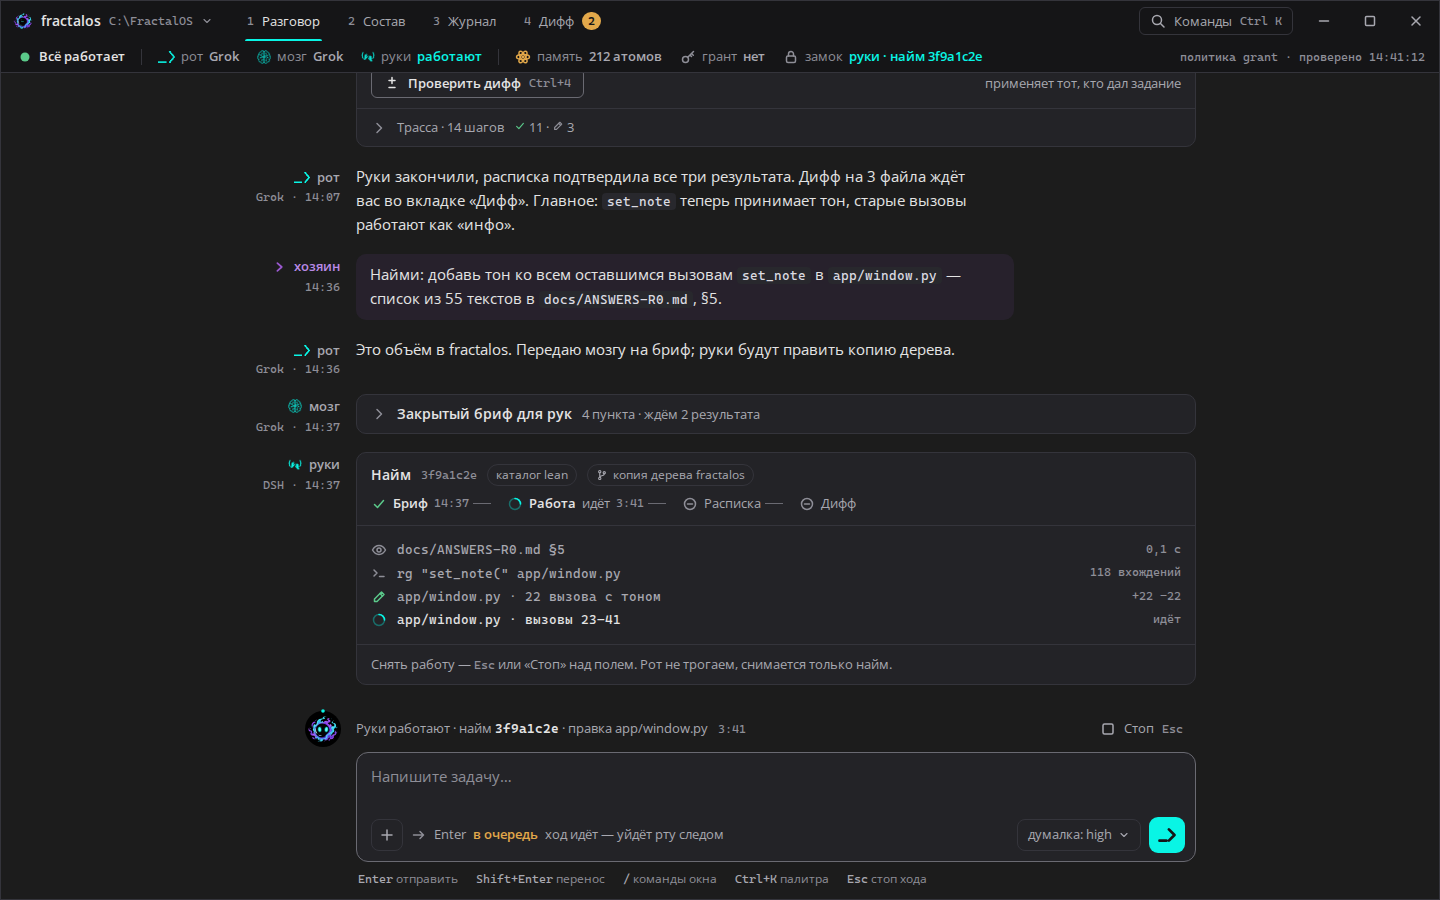
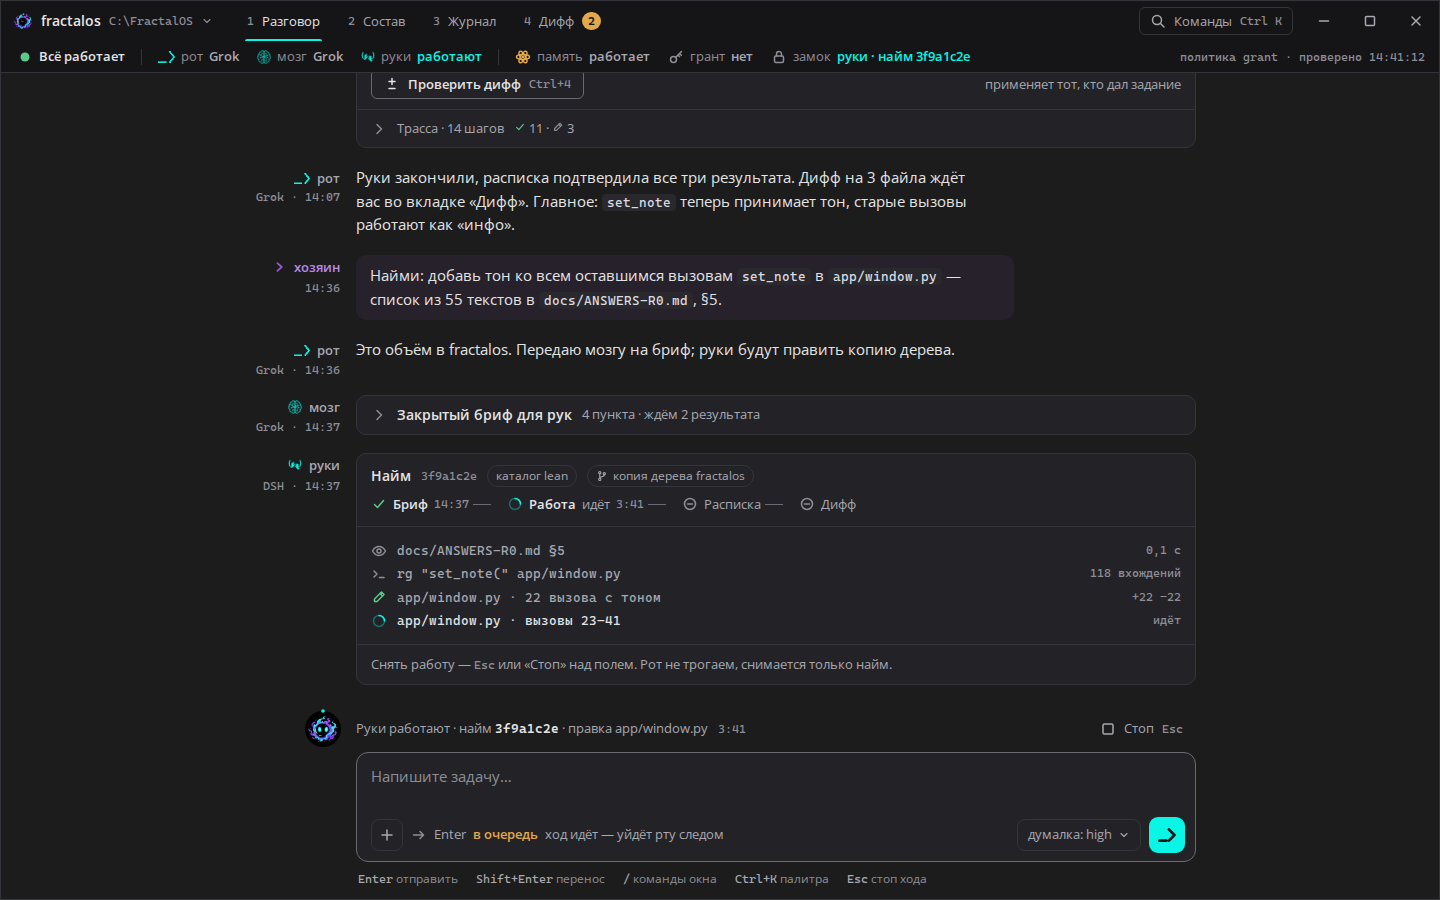
Раунд 1: память одним словом, снимки для сравнения шрифта и ширины
Claude-Session: https://claude.ai/code/session_01GEYAgXC2CYMH5bK9vX1dSj

diff --git a/rounds/01-terminal/index.html b/rounds/01-terminal/index.html
@@ -497,7 +497,7 @@ let UI = {view:"talk", sel:"hands", split:false, palette:false, palMode:"all", p
 /* ---------- проблемы для строки закона и сводки ---------- */
 function issues(s){
   const out = [];
-  if (s.mem.st==="down") out.push({part:"mem", level:"down", short:"Память: нет связи", long:"память лежит: нет связи с Bridge — подсказки не подаются"});
+  if (s.mem.st==="down") out.push({part:"mem", level:"down", short:"Память: нет связи", long:"память лежит: нет связи — работа идёт без памяти"});
   if (s.brain.on && s.brain.st==="warn") out.push({part:"brain", level:"warn", short:"Мозг на запасном Flash", long:"мозг работает на запасном Flash: у Grok кончилась квота"});
   return out;
 }
@@ -514,7 +514,7 @@ function renderLaw(){
   const brainCls = !s.brain.on ? "is-off" : s.brain.st==="warn" ? "is-warn" : "";
   const handsVal = !s.hands.on ? "выкл" : s.hands.busy ? "работают" : "вкл";
   const handsCls = !s.hands.on ? "is-off" : s.hands.busy ? "is-live" : "";
-  const memVal = s.mem.st==="down" ? "нет связи" : `${s.mem.atoms} атомов`;
+  const memVal = s.mem.st==="down" ? "нет связи" : "работает";
   const grantVal = s.grant.st==="open" ? `до ${s.grant.until}` : s.grant.st==="asked" ? "запрошен" : "нет";
   const lockVal = s.lock.holder ? s.lock.holder : "свободен";
 
@@ -523,7 +523,7 @@ function renderLaw(){
    + `<button class="seg ${brainCls}" data-go="brain" title="Мозг — суждение и бриф для рук">${stamp("brain")}мозг <b>${brainVal}</b></button>`
    + `<button class="seg ${handsCls}" data-go="hands" title="Руки — исполнитель по найму">${stamp("hands")}руки <b>${handsVal}</b></button>`
    + `<span class="sep"></span>`
-   + `<button class="seg ${s.mem.st==="down"?"is-down":""}" data-go="mem" title="Память: сколько помнит по проекту">${ico("atom","st-warn")}память <b>${memVal}</b></button>`
+   + `<button class="seg ${s.mem.st==="down"?"is-down":""}" data-go="mem" title="Память продукта: работает или нет">${ico("atom","st-warn")}память <b>${memVal}</b></button>`
    + `<button class="seg ${s.grant.st!=="none"?"is-warn":""}" data-go="grant" title="Грант на запись вне песочницы. Выдаёт только хозяин">${ico("key")}грант <b>${grantVal}</b></button>`
    + `<button class="seg ${s.lock.holder?"is-live":""}" data-go="lock" title="Замок писателя: пока один пишет, второй не пишет">${ico("lock")}замок <b>${esc(lockVal)}</b></button>`
    + `<span class="spacer"></span><span class="checked">политика ${s.policy} · проверено ${s.checked}</span>`;
@@ -629,7 +629,7 @@ function ledgerHTML(s){
     L.push(T.owner("13:18", "<p>Сравни две схемы хранения сессий: одна папка на сессию или один журнал на день. Код не нужен, нужен вывод.</p>"));
     L.push(T.note("13:20", "warn", "мозг: у Grok кончилась квота — вердикты даёт запасной Flash до 16:00. Хотели Grok."));
     L.push(T.mouth("13:21", "Grok", "<p>Папка на сессию выигрывает. Наймы, расписки и диффы уже живут в <code>runtime/dispatch/&lt;sid&gt;/</code>; журнал по дням пришлось бы каждый раз собирать обратно по сессиям.</p><p>Минус один — много мелких папок. Он снимается архивом всего, что старше 30 дней.</p>"));
-    L.push(T.note("14:21", "down", "память: нет связи с Bridge — подсказки не подаются. Работа идёт без памяти."));
+    L.push(T.note("14:21", "down", "память: нет связи — работа идёт без памяти."));
     L.push(T.note("14:25", "off", "руки выключены вами — найм не запустится. Демон остаётся тёплым."));
     L.push(T.owner("14:27", "<p>Сколько сейчас сессий в архиве?</p>"));
     L.push(T.mouth("14:27", "Grok", "<p>В архиве 41 сессия, последняя — 19 сентября. Активных — 14 за эту неделю.</p>"));
@@ -637,7 +637,6 @@ function ledgerHTML(s){
   }
   L.push(T.owner("14:02", "<p>Строка статуса молчит: <code>set_note</code> пишет в поле, которое никто не читает. Найми руки: выведи последние заметки в строку над композером, с тоном инфо / предупреждение / сбой.</p>"));
   L.push(T.mouth("14:02", "Grok", "<p>Понял. Это объём кода в fractalos — отдаю мозгу на бриф, потом рукам. Руки правят копию дерева, дифф придёт вам на проверку.</p>"));
-  L.push(T.note("14:02", "info", "память: 2 подсказки на этот ход — <code class=\"inl\">/why</code> покажет причины"));
   L.push(T.role("brain", "мозг", "14:03", "Grok", brief("5 пунктов · ждём 3 результата", [
     "Дать <code class=\"inl\">Rail.set_note</code> второй аргумент <code class=\"inl\">tone</code>: инфо, предупреждение, сбой; по умолчанию — инфо.",
     "Новый виджет <code class=\"inl\">StatusLine</code> над композером: последняя заметка каждого тона, не одна строка на всех.",
@@ -727,7 +726,7 @@ function nodes(s){
     {id:"dsh", lane:3, col:1, name:"dsh mux", ic:"map", st:"ok", line:"отвечает · 3 воркера тёплые", mono:"127.0.0.1:11436"},
     {id:"ollama", lane:3, col:2, name:"ollama", ic:"map", st:"ok", line:"отвечает · 12 мс", mono:"127.0.0.1:11434"},
     {id:"job", lane:3, col:3, name:"POST /job", ic:"map", st:"ok", line:"через mux · отвечает", mono:"hire/v1"},
-    {id:"mem", lane:4, col:2, name:"память", ic:"atom", st:s.mem.st, line: s.mem.st==="down"?"нет связи с Bridge":`помнит по fractalos: ${s.mem.atoms} атомов`, mono:"fractalmem"},
+    {id:"mem", lane:4, col:2, name:"память", ic:"atom", st:s.mem.st, line: s.mem.st==="down"?"нет связи":"работает", mono:"fractalmem"},
     {id:"root", lane:5, col:2, name:"корень", ic:"branch", st:"ok", line:"fractal-корень · копия и дифф", mono:"C:\\FractalOS"},
   ];
 }
@@ -800,7 +799,7 @@ function events(s){
   if (s.name==="grant") base.unshift({t:"14:41:02", tone:"warn", part:"грант", text:"руки просят запись вне песочницы: C:\\FractalOS\\config.toml"});
   if (s.name==="degraded") return [
     {t:"14:25:10", tone:"off", part:"руки", text:"руки выключены вами — найм не запустится, демон тёплый"},
-    {t:"14:21:47", tone:"down", part:"память", text:"нет связи с Bridge — подсказки не подаются, работа идёт без памяти"},
+    {t:"14:21:47", tone:"down", part:"память", text:"нет связи — работа идёт без памяти"},
     {t:"13:20:05", tone:"warn", part:"мозг", text:"у Grok кончилась квота — мозг на запасном Flash до 16:00"},
     ...base.slice(2)];
   return base;
@@ -833,10 +832,10 @@ function detail(id, s){
       d.kv = [["исполнитель","DSH · hire.py"],["модель","deepseek-v4.1-flash"],["каталоги","slim · lean · full"],["воркеры","3 тёплые · :11437–39"]];
       d.actions = [[s.hands.on?"Выключить руки":"Включить руки","hands"]]; d.ev = evOf("руки"); break;
     case "mem":
-      d.what = "Память продукта fractalmem. Помнит по проекту и подаёт рту до трёх подсказок на ход.";
-      if (s.mem.st==="down"){ d.why = "нет связи с Bridge — подсказки не подаются, работа идёт без памяти"; d.since = "с 14:21"; }
-      d.kv = [["помнит по fractalos", `${s.mem.atoms} атомов`],["подсказок на ход","до 3"],["слой","вкл · подача вкл · обучение вкл"]];
-      d.actions = [["Почему такие подсказки (/why)",""],["Переключатели памяти…",""]]; d.ev = evOf("память"); break;
+      d.what = "Память продукта fractalmem: помнит, что было по проекту, и помогает рту.";
+      if (s.mem.st==="down"){ d.why = "нет связи — работа идёт без памяти"; d.since = "с 14:21"; }
+      d.kv = [["проект","fractalos"]];
+      d.actions = [["Выключить память",""]]; d.ev = evOf("память"); break;
     case "grant":
       d.what = "Разрешение на запись вне песочницы. Это окно времени: пока оно открыто, руки пишут без вопросов. Повторная выдача начинает срок заново.";
       d.can = ["выдаёт только хозяин", "от 1 минуты до 8 часов"];
@@ -970,6 +969,7 @@ function fromHash(){
   const p = new URLSearchParams(location.hash.slice(1));
   S = scenario(p.get("s")||"ok"); UI.extra=[];
   UI.view = p.get("v")||"talk"; UI.sel = p.get("sel")||"hands"; UI.split = p.get("split")==="1";
+  document.body.dataset.ledgerFont = p.get("f")==="mono" ? "mono" : "sans";
   $("#field").value = S.draft; autosize();
   renderAll();
   if (p.get("palette")) openPalette(p.get("palette")==="project"?"project":"all");

diff --git a/rounds/01-terminal/NOTES.md b/rounds/01-terminal/NOTES.md
@@ -92,7 +92,7 @@
 | Было на рельсе | Стало |
 |---|---|
 | Рот / Мозг / Руки + `Flash │ Grok` | Строка закона + карточка роли в «Составе» (переключение там и в палитре). У рук выбора провайдера нет — его нет и в коде (§5.1) |
-| `fractalmem` + 4 переключателя | Строка закона: «память 212 атомов» или «нет связи». Переключатели — в карточке памяти, за кнопкой |
+| `fractalmem` + 4 переключателя | Строка закона: «память работает» или «нет связи». Переключатели и числа убраны |
 | Журнал runtime (hygiene) | Лента «События системы» в «Составе»; в разговор не попадает |
 | Лаборатория, выбор проекта | Проект в заголовке, `Ctrl+P` |
 | `[инфраструктура]` → LabCanvas | Вид «Состав»: та же карта, но с живым состоянием у каждой части |
@@ -172,10 +172,9 @@
 показана политика (`grant` / `allow`). При `allow` кнопок не бывает вовсе, и
 хозяин должен это видеть.
 
-### 5.5 Память — одним числом
-«Помнит по fractalos: 212 атомов» — это `atoms_total`: он уже собирается, но нигде
-не выводится (ANSWERS §4). `offer_count` (0…3) — это «подсказок на ход», и
-подписан он именно так. Четыре переключателя спрятаны в карточке памяти.
+### 5.5 Память — одним словом
+Память показана только как «работает» или «нет связи». Числа (атомы, подсказки
+на ход) и переключатели убраны совсем — хозяин сказал, что они не нужны.
 
 ### 5.6 Найм — один объект
 Этапы «бриф → работа → расписка → дифф» в одной строке. Под ними — расписка:
@@ -254,7 +253,7 @@
 3. **Строку рук упростить до питания.** Сегмент провайдера убрать; убрать литерал
    «слот Flash» (`app/window.py:8623`) и побочное включение рук кликом по
    сегменту (`app/window.py:8184`).
-4. **`atoms_total` вывести** в строку закона и карточку памяти.
+4. **Память** в строке закона — одно состояние: работает / нет связи.
 5. **Тексты кнопок гранта**: «Разрешить на 30 минут» / «На 8 часов…» / «Не
    разрешать» (`app/chatpane.py:1283-1292`). В строку закона — срок гранта из
    `approve.status()` и действующая политика.
@@ -306,8 +305,7 @@
 
 1. **Шрифт ленты:** речь пропорциональным (как в прототипе) или всё моно, как
    сейчас в окне? Сравнить можно в палитре: «Лента: моноширинный шрифт».
-2. **Как называть память в строке закона:** «212 атомов» — честно по данным, но
-   это слово из механики. Варианты: «помнит 212», «212 записей».
+2. ~~Как называть память~~ — снят: хозяин не хочет чисел, память показана словом «работает» / «нет связи».
 3. **Разделение на 2560:** включать его само на широком окне или только по `Ctrl+\`?
 4. **«Журнал» и «Дифф»** строятся в раунде 2. Что важнее первым: журнал сессий или
    приёмка диффа?

diff --git a/DECISIONS.md b/DECISIONS.md
@@ -10,7 +10,7 @@
 | 1.2 | У рук нет выбора провайдера: только вкл / выкл / работают. | Сегмент `Flash │ Grok` | Сегмент ничего не выбирает: оба значения ведут в один `hire.py` на одной модели (ANSWERS §1). |
 | 1.3 | Предпросмотр маршрута Enter виден всегда, а не только в режиме плана. Метки — по-русски, со штампом роли. | Прятать за plan-mode | `guide.preview` без побочных эффектов (ANSWERS §3); это самый прямой способ показать закон «рот не нанимает по сырому тексту» до Enter. |
 | 1.4 | Грант — «окно времени»: «Разрешить на 30 минут» / «На 8 часов…» / «Не разрешать». В строке закона — срок и политика. | «разово / на сессию / нет» | «Разово» по коду — таймер на 30 минут (ANSWERS §2). |
-| 1.5 | Память в строке закона — `atoms_total` («212 атомов») или «нет связи». Переключатели памяти — в карточке. | Полоса `pin·sit·offer…` и 4 тумблера на виду | Бриф: память — «работает / нет / сколько помнит». Метрика уже собирается (ANSWERS §4). Слово «атомов» — открытый вопрос. |
+| 1.5 | Память — одно слово: «работает» или «нет связи». Никаких чисел и переключателей. | «212 атомов», подсказки на ход, 4 тумблера | Хозяин: «мне не нужно знать, сколько атомов и т. д.» |
 | 1.6 | `DESIGN.md` не пишется до финального раунда. | Документировать мир сейчас | Дизайн-система собирается в `design-system/` в финале; ранний `DESIGN.md` закрепил бы то, что ещё поменяется. |
 | 1.7 | Финальная проверка Impeccable — в одном контексте, без субагента, с раскрытием. | Субагент-проверяющий | По правилам сессии субагентов запускаю только по прямой просьбе хозяина. |
 | 1.8 | Шрифты в репозитории: Cascadia Mono и Open Sans (OFL); Open Sans — только замена Segoe UI на снимках. | Selawik | В репозитории Selawik нет готовых TTF, а кириллица в нём, по всей видимости, отсутствует. |
